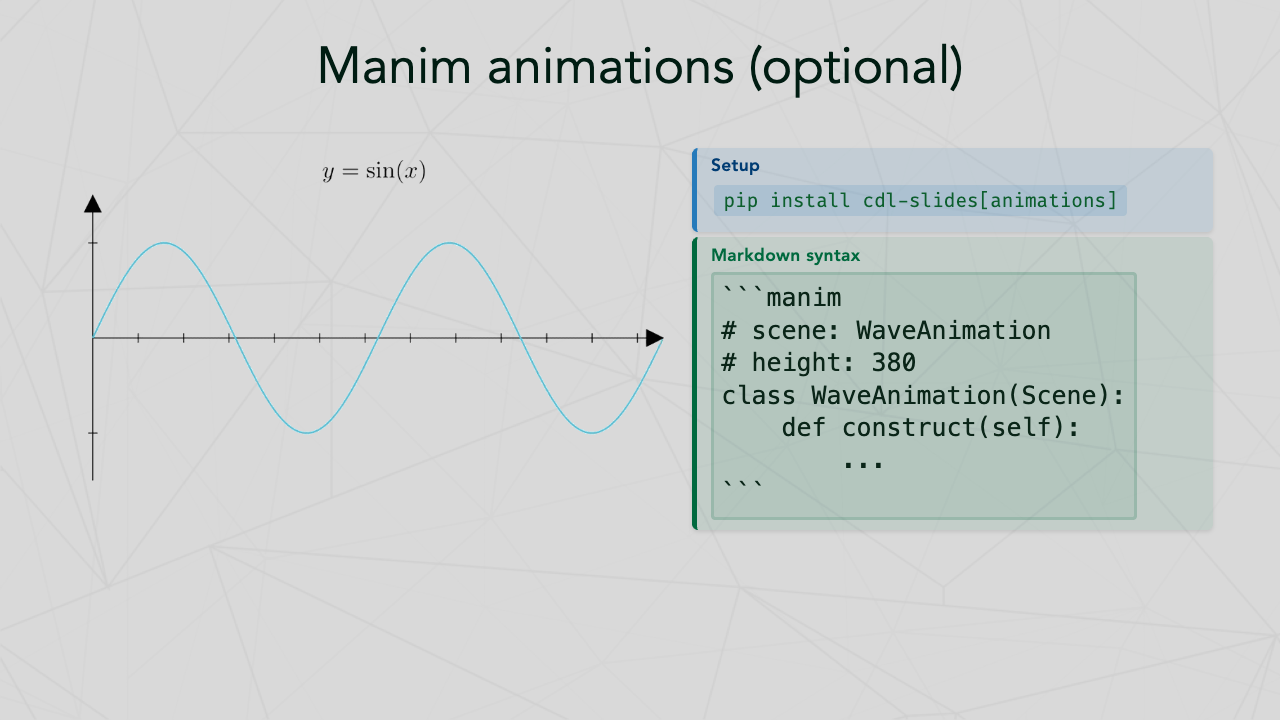
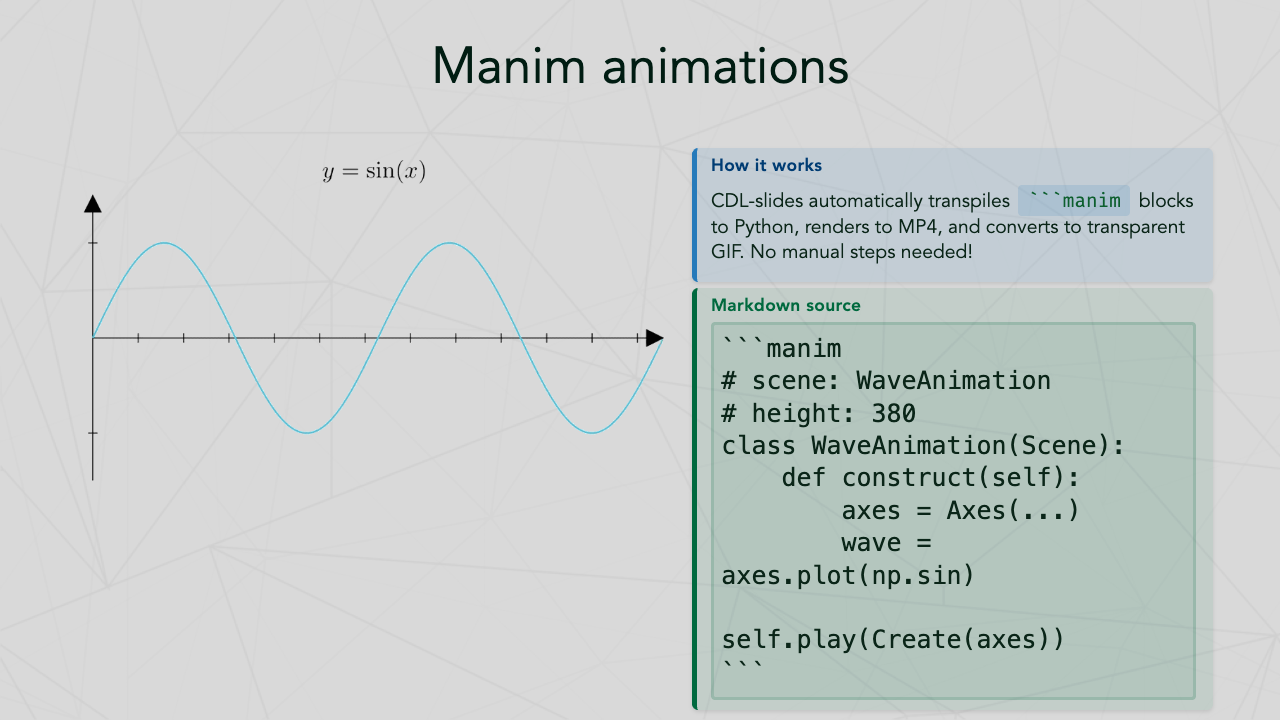
feat: auto-install animations with bundled ffmpeg
- Move manim, Pillow from optional [animations] to main dependencies
- Add imageio-ffmpeg for cross-platform ffmpeg bundling
- Add --no-animations CLI flag to skip animation processing (for CI)
- Update README to reflect animations are included by default
- Update sample slides with improved manim/animate DSL explanations
- Regenerate gallery screenshots for animation slides

Changed region(s): [[0.5312, 0.2139, 0.9375, 0.6722], [0.5312, 0.7028, 0.9375, 0.9778], [0.25, 0.0611, 0.75, 0.1222]]

diff --git a/src/cdl_slides/manim_renderer.py b/src/cdl_slides/manim_renderer.py
@@ -45,8 +45,19 @@ try:
 except ImportError:
     pass
 
-# Check for FFmpeg availability
-FFMPEG_AVAILABLE = shutil.which("ffmpeg") is not None
+# Check for FFmpeg availability via imageio-ffmpeg (bundled) or system PATH
+FFMPEG_PATH: Optional[str] = None
+FFMPEG_AVAILABLE = False
+try:
+    import imageio_ffmpeg
+
+    FFMPEG_PATH = imageio_ffmpeg.get_ffmpeg_exe()
+    FFMPEG_AVAILABLE = True
+except (ImportError, RuntimeError):
+    _system_ffmpeg = shutil.which("ffmpeg")
+    if _system_ffmpeg:
+        FFMPEG_PATH = _system_ffmpeg
+        FFMPEG_AVAILABLE = True
 
 
 def check_dependencies() -> Tuple[bool, list]:
@@ -59,7 +70,7 @@ def check_dependencies() -> Tuple[bool, list]:
     if not MANIM_AVAILABLE:
         missing.append("manim (pip install manim)")
     if not FFMPEG_AVAILABLE:
-        missing.append("ffmpeg (brew install ffmpeg / apt install ffmpeg)")
+        missing.append("ffmpeg (pip install imageio-ffmpeg)")
     if not PIL_AVAILABLE:
         missing.append("Pillow (pip install Pillow)")
     return len(missing) == 0, missing
@@ -293,10 +304,11 @@ def convert_mp4_to_gif(
     palette_path = gif_path.with_suffix(".palette.png")
 
     try:
+        ffmpeg_cmd = FFMPEG_PATH or "ffmpeg"
         # Step 1: Generate palette with transparency support
         vf_palette = f"fps={fps},scale={scale_width}:-1:flags=lanczos,palettegen=reserve_transparent=1:stats_mode=diff"
         subprocess.run(
-            ["ffmpeg", "-y", "-i", str(mp4_path), "-vf", vf_palette, str(palette_path)],
+            [ffmpeg_cmd, "-y", "-i", str(mp4_path), "-vf", vf_palette, str(palette_path)],
             capture_output=True,
             check=True,
         )
@@ -307,7 +319,7 @@ def convert_mp4_to_gif(
         )
         subprocess.run(
             [
-                "ffmpeg",
+                ffmpeg_cmd,
                 "-y",
                 "-i",
                 str(mp4_path),

diff --git a/src/cdl_slides/preprocessor.py b/src/cdl_slides/preprocessor.py
@@ -1327,6 +1327,7 @@ def process_markdown(
     max_lines: int = 30,
     max_table_rows: int = 10,
     no_split: bool = False,
+    skip_animations: bool = False,
 ) -> dict:
     """
     Process a markdown file for Marp presentation.
@@ -1359,13 +1360,18 @@ def process_markdown(
     content, flow_diagrams_processed = process_flow_blocks(content)
 
     # Process animate DSL blocks (transpiles to manim blocks)
-    content, animate_blocks_transpiled = process_animate_blocks(content)
+    # Skip if --no-animations flag is set
+    if skip_animations:
+        animate_blocks_transpiled = 0
+        manim_animations_rendered = 0
+    else:
+        content, animate_blocks_transpiled = process_animate_blocks(content)
 
-    # Process manim animation blocks (renders to GIF files in animations/ subfolder)
-    from pathlib import Path
+        # Process manim animation blocks (renders to GIF files in animations/ subfolder)
+        from pathlib import Path
 
-    output_dir = str(Path(output_file).parent)
-    content, manim_animations_rendered = process_manim_blocks(content, output_dir)
+        output_dir = str(Path(output_file).parent)
+        content, manim_animations_rendered = process_manim_blocks(content, output_dir)
 
     # Parse the file into lines
     lines = content.split("\n")

diff --git a/src/cdl_slides/cli.py b/src/cdl_slides/cli.py
@@ -93,6 +93,12 @@ def main() -> None:
     default=None,
     help="Custom theme directory.",
 )
+@click.option(
+    "--no-animations",
+    is_flag=True,
+    default=False,
+    help="Skip processing of manim and animate blocks (useful for CI).",
+)
 def compile(
     input_file: Path,
     output: Optional[Path],
@@ -102,6 +108,7 @@ def compile(
     no_split: bool,
     keep_temp: bool,
     theme_dir: Optional[Path],
+    no_animations: bool,
 ) -> None:
     """Compile a Markdown file into a CDL-themed Marp presentation."""
     from cdl_slides.compiler import CompilationError, compile_presentation
@@ -118,6 +125,7 @@ def compile(
             no_split=no_split,
             keep_temp=keep_temp,
             theme_dir=theme_dir,
+            skip_animations=no_animations,
         )
     except FileNotFoundError as exc:
         click.echo(click.style(f"Error: {exc}", fg="red"), err=True)

diff --git a/src/cdl_slides/compiler.py b/src/cdl_slides/compiler.py
@@ -91,6 +91,7 @@ def compile_presentation(
     no_split: bool = False,
     keep_temp: bool = False,
     theme_dir: Optional[Path] = None,
+    skip_animations: bool = False,
 ) -> dict:
     """Compile a Markdown file into a CDL-themed Marp presentation.
 
@@ -156,6 +157,7 @@ def compile_presentation(
             max_lines=max_lines,
             max_table_rows=max_table_rows,
             no_split=no_split,
+            skip_animations=skip_animations,
         )
 
         results: Dict[str, object] = {

diff --git a/examples/sample_presentation.md b/examples/sample_presentation.md
@@ -252,7 +252,7 @@ KaTeX is used for math rendering. Use `$...$` for inline and `$$...$$` for displ
 
 ---
 
-# Manim animations (optional)
+# Manim animations
 <!-- _class: scale-85 -->
 
 <div style="display: flex; gap: 1.5em;">
@@ -276,20 +276,22 @@ class WaveAnimation(Scene):
 </div>
 <div style="flex: 1;">
 
-<div class="note-box" data-title="Setup">
+<div class="note-box" data-title="How it works">
 
-`pip install cdl-slides[animations]`
+CDL-slides automatically transpiles ` ```manim ` blocks to Python, renders to MP4, and converts to transparent GIF. No manual steps needed!
 
 </div>
 
-<div class="example-box" data-title="Markdown syntax">
+<div class="example-box" data-title="Markdown source">
 
-<pre style="margin: 0; font-size: 0.7em; background: rgba(0,105,62,0.08); padding: 0.3em; border-radius: 4px; white-space: pre-wrap;">&#96;&#96;&#96;manim
+<pre style="margin: 0; font-size: 0.65em; background: rgba(0,105,62,0.08); padding: 0.3em; border-radius: 4px; white-space: pre-wrap;">&#96;&#96;&#96;manim
 # scene: WaveAnimation
 # height: 380
 class WaveAnimation(Scene):
     def construct(self):
-        ...
+        axes = Axes(...)
+        wave = axes.plot(np.sin)
+        self.play(Create(axes))
 &#96;&#96;&#96;</pre>
 
 </div>
@@ -316,19 +318,19 @@ fade-in integral
 </div>
 <div style="flex: 1;">
 
-<div class="tip-box" data-title="Simplified">
+<div class="note-box" data-title="DSL features">
 
-No Python needed! Transpiles to manim.
+No Python needed! Also supports: `create circle/square/arrow`, `transform A -> B`, positions like `above/below/left-of`. See [README](https://github.com/ContextLab/cdl-slides#animate-dsl-simplified-animation-syntax).
 
 </div>
 
-<div class="example-box" data-title="Markdown syntax">
+<div class="example-box" data-title="Markdown source">
 
-<pre style="margin: 0; font-size: 0.7em; background: rgba(0,105,62,0.08); padding: 0.3em; border-radius: 4px; white-space: pre-wrap;">&#96;&#96;&#96;animate
+<pre style="margin: 0; font-size: 0.65em; background: rgba(0,105,62,0.08); padding: 0.3em; border-radius: 4px; white-space: pre-wrap;">&#96;&#96;&#96;animate
 height: 380
-write equation "E = mc^2" as eq
+write equation "..." as integral
 wait 0.5
-fade-in eq
+fade-in integral
 &#96;&#96;&#96;</pre>
 
 </div>

diff --git a/README.md b/README.md
@@ -32,7 +32,7 @@ Compile Markdown files into beautiful CDL-themed [Marp](https://marp.app/) prese
 - **Bundled theme**: Complete CDL/Dartmouth-branded theme with custom fonts, colors, and layouts
 - **Smart preprocessing**: Auto-splits long code blocks and tables across slides
 - **Flow diagrams**: Simple ```` ```flow ```` syntax for pipeline diagrams
-- **Manim animations**: Embed animated equations and visualizations with ```` ```manim ```` blocks (optional)
+- **Manim animations**: Embed animated equations and visualizations with ```` ```manim ```` blocks (included by default)
 - **Auto-scaling**: Automatically adjusts font size for dense slides
 - **Syntax highlighting**: Code blocks with line numbers via Pygments
 - **Math support**: KaTeX for inline and display equations
@@ -252,17 +252,11 @@ Use the ```` ```flow ```` syntax for simple pipeline diagrams:
 
 Available colors: `green`, `blue`, `navy`, `teal`, `orange`, `red`, `violet`, `yellow`, `gray`.
 
-### Manim Animations (Optional)
+### Manim Animations
 
 Embed animated math visualizations using [Manim Community](https://www.manim.community/). Animations are rendered to transparent GIFs and embedded in slides.
 
-**Installation:**
-
-```bash
-pip install cdl-slides[animations]
-```
-
-This installs `manim` and `Pillow`. You also need `ffmpeg` installed on your system.
+Animation support is included by default when you install `cdl-slides`. FFmpeg is bundled automatically via `imageio-ffmpeg` — no system installation required.
 
 **Usage:**
 
@@ -344,7 +338,7 @@ fade-in eq1
 
 **Available colors:** blue, red, green, yellow, orange, white, black
 
-Note: The animate DSL requires the same `cdl-slides[animations]` install as manim blocks.
+Note: The animate DSL is included by default with `cdl-slides` — no extra installation needed.
 
 ### Scale Directives
 
